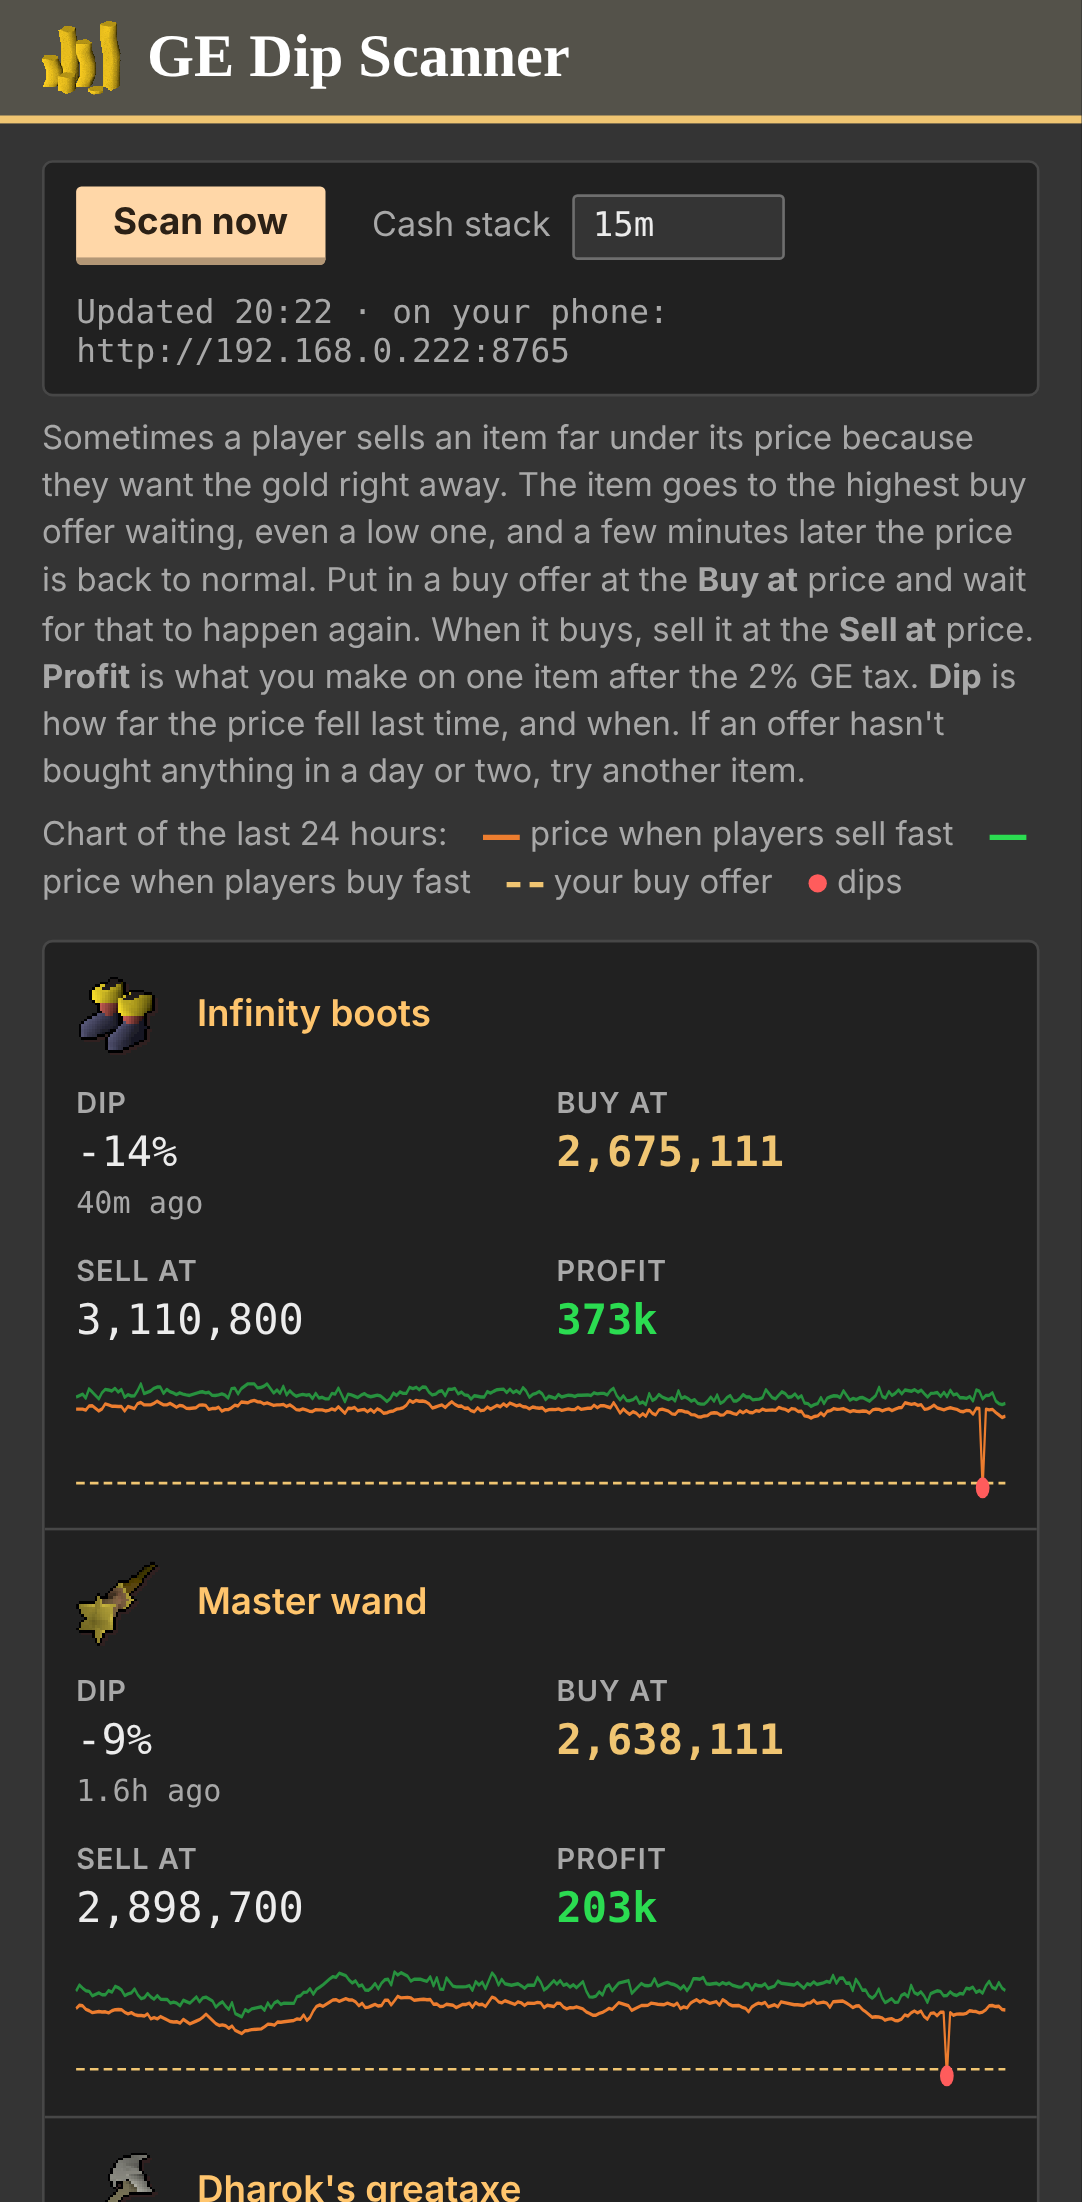
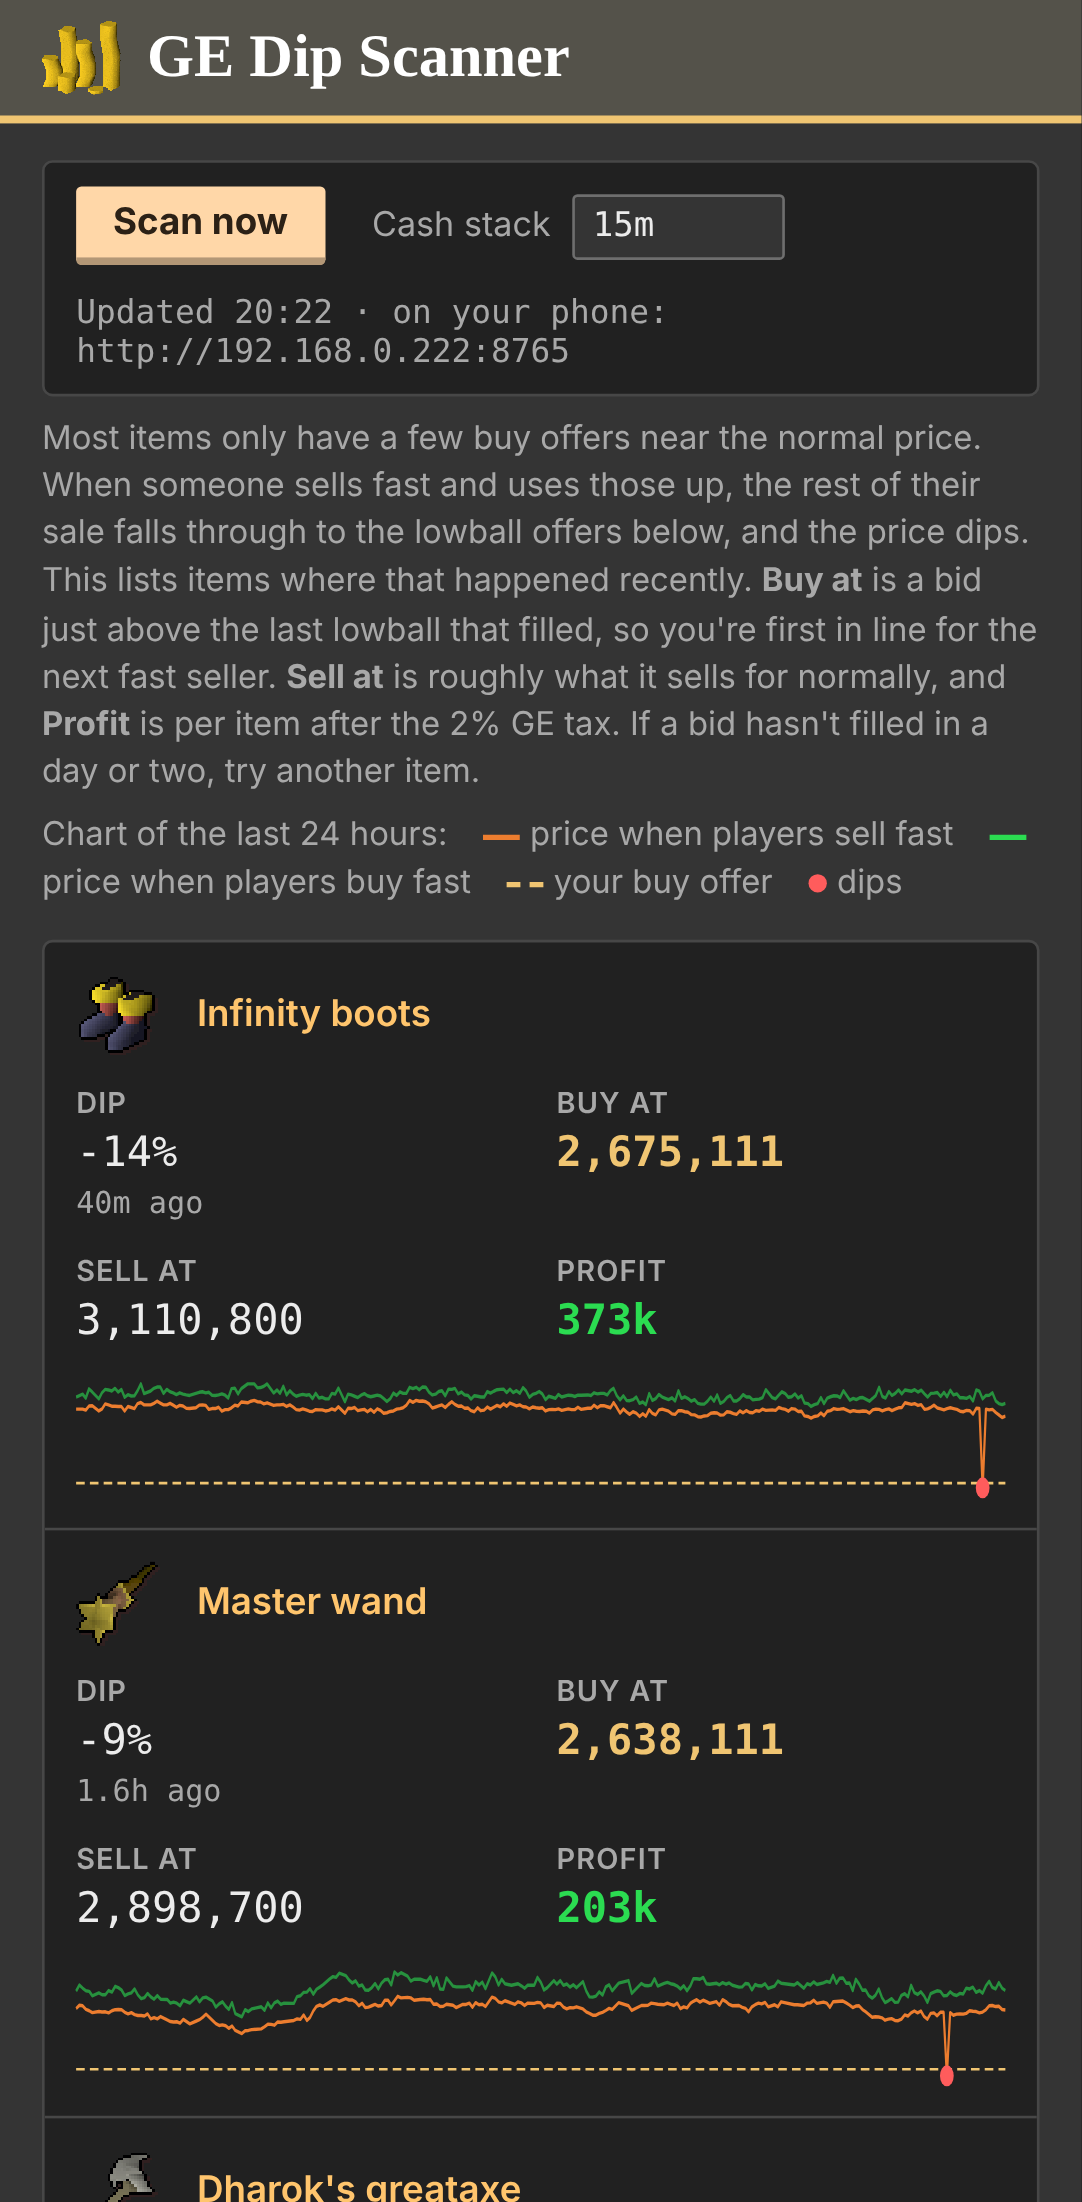
Explain dips as thin buy offers falling through to lowballs

Changed region(s): [[0.0305, 0.1853, 0.9455, 0.3706]]

diff --git a/dip_scanner.py b/dip_scanner.py
@@ -704,12 +704,12 @@ th.num {{ text-align:right }}
 <main>
 {toolbar}
 <div class="legend">
-<p>Sometimes a player sells an item far under its price because they want the gold right away.
-The item goes to the highest buy offer waiting, even a low one, and a few minutes later the price is
-back to normal. Put in a buy offer at the <b>Buy at</b> price and wait for that to happen again. When
-it buys, sell it at the <b>Sell at</b> price. <b>Profit</b> is what you make on one item after the
-2% GE tax. <b>Dip</b> is how far the price fell last time, and when. If an offer hasn't bought
-anything in a day or two, try another item.</p>
+<p>Most items only have a few buy offers near the normal price. When someone sells fast and uses
+those up, the rest of their sale falls through to the lowball offers below, and the price dips.
+This lists items where that happened recently. <b>Buy at</b> is a bid just above the last lowball
+that filled, so you're first in line for the next fast seller. <b>Sell at</b> is roughly what it
+sells for normally, and <b>Profit</b> is per item after the 2% GE tax. If a bid hasn't filled in a
+day or two, try another item.</p>
 <p>Chart of the last 24 hours: <i style="background:var(--sell)"></i>price when players sell fast
 <i style="background:var(--buy)"></i>price when players buy fast <i style="border-top:2px dashed var(--gold)"></i>your buy offer
 <i class="dot"></i>dips</p>

diff --git a/README.md b/README.md
@@ -5,30 +5,26 @@ for my own flipping.
 
 ![The scanner page](docs/desktop.png)
 
-## Why this makes money
+## How it works
 
-Sometimes a player sells an item far under its price because they want the gold right away. The GE
-gives their item to the highest buy offer waiting, even if that offer is low. A few minutes later the
-price is back to normal.
+Most items only have a few buy offers near the normal price. When someone sells fast and uses those
+up, the rest of their sale falls through to the lowball offers below, and the price dips.
 
-If your buy offer is the one waiting, you get the item cheap and sell it at the normal price.
-
-## What the scanner does
-
-It checks the busiest items in your price range and finds the ones where this has happened in the
-last day. For each one it shows:
+The scanner checks the busiest items in your price range for dips in the last day, and suggests a
+bid just above the last lowball that filled. That puts your offer first in line for the next fast
+seller. For each item it shows:
 
 - **Dip**: how far the price fell last time, and when.
-- **Buy at**: the price to put your buy offer in at. It's just above where the price fell to last time.
-- **Sell at**: roughly what you can sell it for once you have it.
+- **Buy at**: your bid.
+- **Sell at**: roughly what it sells for normally.
 - **Profit**: what you make on one item after the 2% GE tax.
 
 ## How to use it
 
 1. Put in a buy offer for one of an item at its **Buy at** price.
 2. Wait. It can take a few hours or a day.
-3. When it buys, sell it at the **Sell at** price.
-4. If it hasn't bought anything in a day or two, cancel it and try another item on the list.
+3. When it fills, sell it at the **Sell at** price.
+4. If it hasn't filled in a day or two, cancel it and try another item on the list.
 
 ## Setup (Windows, once)
 
